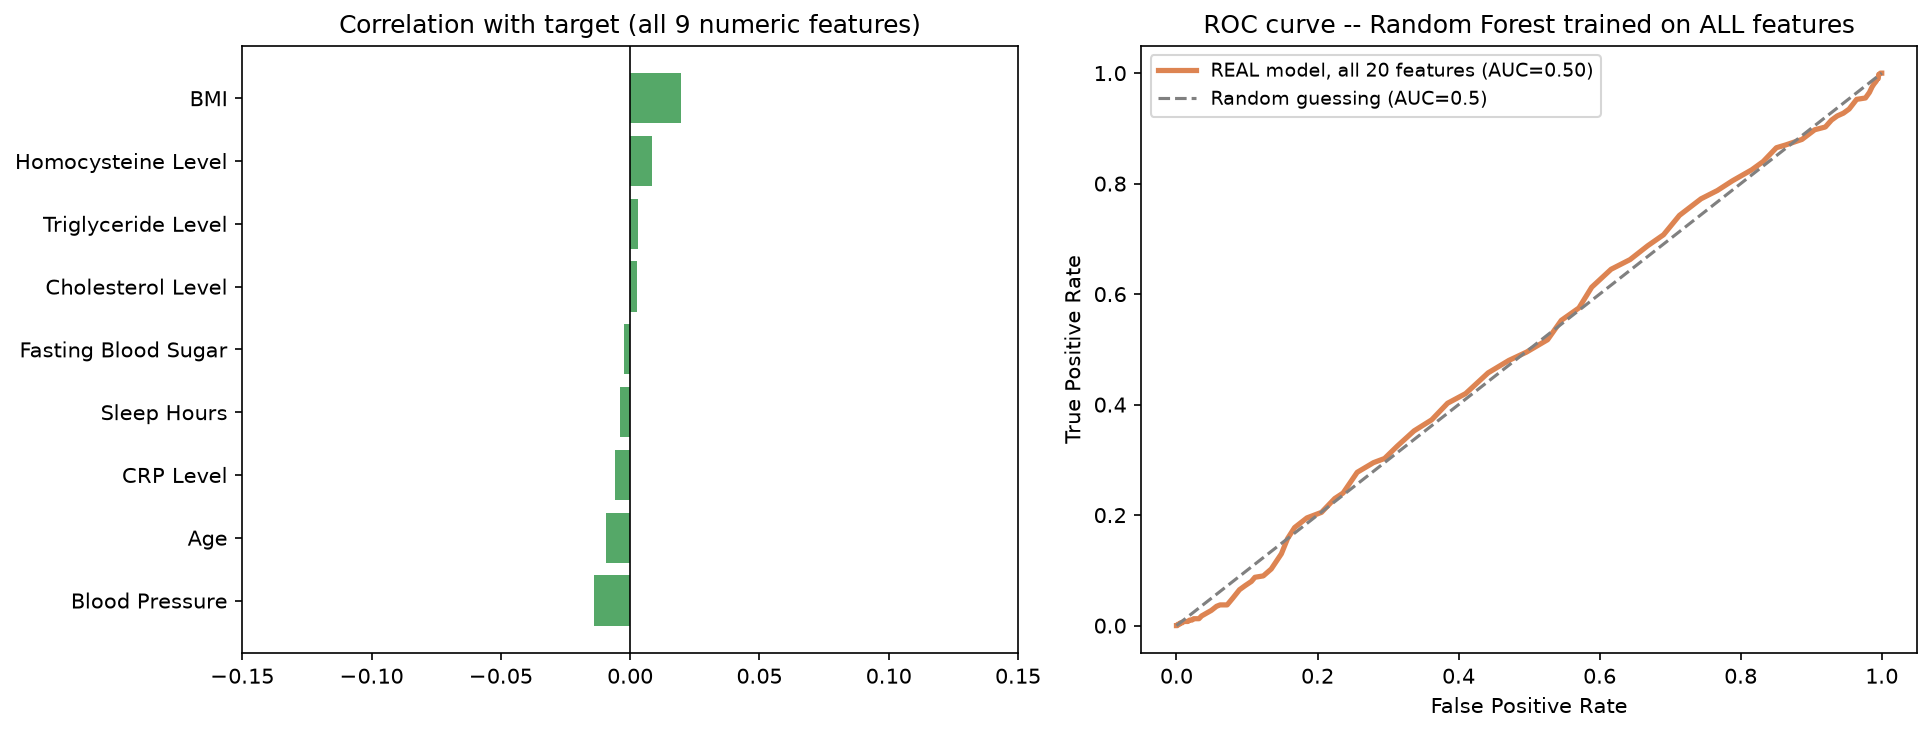
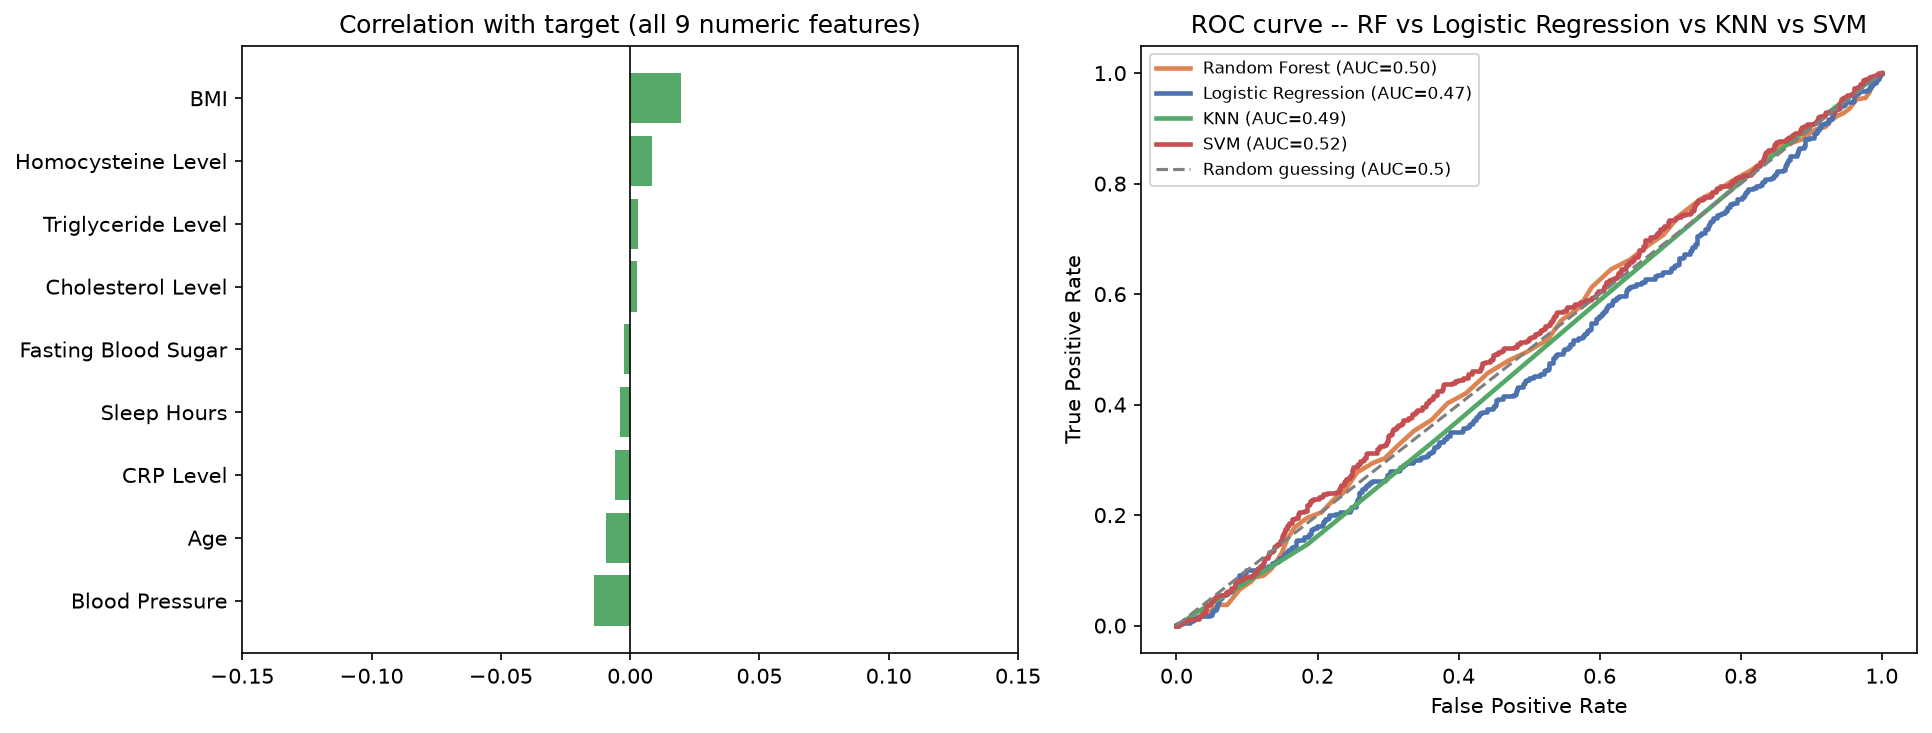
Refactor check_dataset.py for improved structure and add model-specific explainability plots

diff --git a/Check_Dataset_Output/check_dataset.py b/Check_Dataset_Output/check_dataset.py
@@ -1,10 +1,15 @@
 import os
-import pandas as pd
 import numpy as np
+import pandas as pd
 import matplotlib.pyplot as plt
+
 from sklearn.model_selection import train_test_split
+from sklearn.preprocessing import LabelEncoder, OrdinalEncoder, StandardScaler
+from sklearn.pipeline import Pipeline
 from sklearn.ensemble import RandomForestClassifier
-from sklearn.preprocessing import LabelEncoder, OrdinalEncoder
+from sklearn.linear_model import LogisticRegression
+from sklearn.neighbors import KNeighborsClassifier
+from sklearn.svm import SVC
 from sklearn.metrics import roc_curve, roc_auc_score
 
 OUTPUT_DIR = "Check_Dataset_Output"
@@ -16,6 +21,9 @@ num_cols = df.select_dtypes(include='number').columns.tolist()
 target = "Heart Disease Status"
 y = df[target].map({"No": 0, "Yes": 1})
 
+# ---------------------------------------------------------
+# Text summaries (unchanged)
+# ---------------------------------------------------------
 print("=" * 60)
 print("TARGET DISTRIBUTION")
 print("=" * 60)
@@ -25,21 +33,14 @@ print(df[target].value_counts(normalize=True))
 print("\n" + "=" * 60)
 print("NUMERIC FEATURES BY TARGET")
 print("=" * 60)
-
 numeric_cols = df.select_dtypes(include=np.number).columns
-
 for col in numeric_cols:
     print(f"\n--- {col} ---")
-    print(
-        df.groupby(target)[col]
-        .agg(["mean", "std", "min", "max"])
-        .round(3)
-    )
+    print(df.groupby(target)[col].agg(["mean", "std", "min", "max"]).round(3))
 
 print("\n" + "=" * 60)
 print("NUMERIC CORRELATION WITH TARGET")
 print("=" * 60)
-
 for col in numeric_cols:
     corr = df[col].corr(y)
     print(f"{col:<25} {corr:.4f}")
@@ -47,40 +48,27 @@ for col in numeric_cols:
 print("\n" + "=" * 60)
 print("CATEGORICAL FEATURES VS TARGET")
 print("=" * 60)
-
-categorical_cols = df.select_dtypes(
-    include=["object"]
-).columns
-
+categorical_cols = df.select_dtypes(include=["object"]).columns
 for col in categorical_cols:
-
     if col == target:
         continue
-
     print(f"\n--- {col} ---")
-
-    table = pd.crosstab(
-        df[col],
-        df[target],
-        normalize="index"
-    )
-
+    table = pd.crosstab(df[col], df[target], normalize="index")
     print(table.round(3))
 
 # ---------------------------------------------------------
-# Figure 1: Every numeric feature's distribution by class
-# (not just Age/Cholesterol) -- all overlap almost completely
+# Figure 1: distribution of every numeric feature by class.
+# Pure EDA on raw data -- does NOT depend on which model you
+# train, so this is already "general" and needs no changes.
 # ---------------------------------------------------------
 fig1, axes1 = plt.subplots(3, 3, figsize=(15, 12))
 axes1 = axes1.flatten()
-
 for ax, col in zip(axes1, num_cols):
     for label, color in [('No', '#4C72B0'), ('Yes', '#DD8452')]:
-        subset = df[df['Heart Disease Status'] == label][col].dropna()
+        subset = df[df[target] == label][col].dropna()
         ax.hist(subset, bins=30, alpha=0.5, label=label, color=color, density=True)
     ax.set_title(col, fontsize=11)
     ax.legend(fontsize=8)
-
 fig1.suptitle('REAL DATA: every numeric feature, split by class -- all overlap almost completely',
               fontsize=13, y=1.01)
 plt.tight_layout()
@@ -89,19 +77,11 @@ plt.close(fig1)
 print("Saved all_features_distribution.png (all 9 numeric features)")
 
 # ---------------------------------------------------------
-# Figure 2: Correlation bar chart + ROC curve summary
+# Shared preprocessing (used by every model)
 # ---------------------------------------------------------
-fig2, axes2 = plt.subplots(1, 2, figsize=(13, 5))
-
-y = df['Heart Disease Status'].map({'No': 0, 'Yes': 1})
-corr = df[num_cols].corrwith(y).sort_values()
-axes2[0].barh(corr.index, corr.values, color='#55A868')
-axes2[0].set_title('Correlation with target (all 9 numeric features)')
-axes2[0].axvline(0, color='black', lw=0.8)
-axes2[0].set_xlim(-0.15, 0.15)
-
-X = df.drop(columns=['Heart Disease Status']).copy()
+X = df.drop(columns=[target]).copy()
 X['Alcohol Consumption'] = X['Alcohol Consumption'].fillna('None')
+
 ncols = X.select_dtypes(include='number').columns.tolist()
 ccols = X.select_dtypes(include='object').columns.tolist()
 X[ncols] = X[ncols].fillna(X[ncols].median())
@@ -124,20 +104,123 @@ for col in binary_cols:
 X_train, X_test, y_train, y_test = train_test_split(
     X, y, test_size=0.2, random_state=42, stratify=y
 )
-rf = RandomForestClassifier(n_estimators=300, random_state=42, n_jobs=-1)
-rf.fit(X_train, y_train)
-proba = rf.predict_proba(X_test)[:, 1]
-fpr, tpr, _ = roc_curve(y_test, proba)
-auc_real = roc_auc_score(y_test, proba)
 
-axes2[1].plot(fpr, tpr, color='#DD8452', lw=2.5, label=f'REAL model, all 20 features (AUC={auc_real:.2f})')
+# ---------------------------------------------------------
+# Model zoo.
+# RF does not need feature scaling (splits are scale-invariant).
+# LogisticRegression / KNN / SVM are distance- or gradient-based,
+# so they are wrapped in a Pipeline with StandardScaler.
+# SVC needs probability=True to expose predict_proba (slightly
+# slower to fit, but keeps the downstream code identical).
+# ---------------------------------------------------------
+models = {
+    "Random Forest": RandomForestClassifier(n_estimators=300, random_state=42, n_jobs=-1),
+    "Logistic Regression": Pipeline([
+        ("scaler", StandardScaler()),
+        ("clf", LogisticRegression(max_iter=1000, random_state=42)),
+    ]),
+    "KNN": Pipeline([
+        ("scaler", StandardScaler()),
+        ("clf", KNeighborsClassifier(n_neighbors=15)),
+    ]),
+    "SVM": Pipeline([
+        ("scaler", StandardScaler()),
+        ("clf", SVC(kernel="rbf", probability=True, random_state=42)),
+    ]),
+}
+
+model_colors = {
+    "Random Forest": "#DD8452",
+    "Logistic Regression": "#4C72B0",
+    "KNN": "#55A868",
+    "SVM": "#C44E52",
+}
+
+
+def get_positive_class_scores(fitted_model, X_eval):
+    """
+    General helper so ROC generation works for ANY sklearn classifier:
+    use predict_proba when available (RF, LogReg, KNN, SVM with
+    probability=True); fall back to decision_function otherwise
+    (e.g. a plain SVC without probability=True). This is what makes
+    a single shared ROC-plotting loop possible across model types.
+    """
+    if hasattr(fitted_model, "predict_proba"):
+        return fitted_model.predict_proba(X_eval)[:, 1]
+    elif hasattr(fitted_model, "decision_function"):
+        return fitted_model.decision_function(X_eval)
+    else:
+        raise ValueError("Model exposes neither predict_proba nor decision_function")
+
+
+results = {}
+for name, model in models.items():
+    model.fit(X_train, y_train)
+    scores = get_positive_class_scores(model, X_test)
+    fpr, tpr, _ = roc_curve(y_test, scores)
+    auc = roc_auc_score(y_test, scores)
+    results[name] = {"fpr": fpr, "tpr": tpr, "auc": auc, "model": model}
+    print(f"{name:<22} test AUC = {auc:.3f}")
+
+# ---------------------------------------------------------
+# Figure 2: correlation bar chart (general, data-based) +
+# ROC curves for ALL FOUR models overlaid on one shared axis.
+# The ROC-plotting loop is 100% general -- it only touches
+# fpr/tpr/auc, which every classifier produces the same way,
+# so RF/LogReg/KNN/SVM all reuse this exact code.
+# ---------------------------------------------------------
+fig2, axes2 = plt.subplots(1, 2, figsize=(13, 5))
+
+corr = df[num_cols].corrwith(y).sort_values()
+axes2[0].barh(corr.index, corr.values, color='#55A868')
+axes2[0].set_title('Correlation with target (all 9 numeric features)')
+axes2[0].axvline(0, color='black', lw=0.8)
+axes2[0].set_xlim(-0.15, 0.15)
+
+for name, res in results.items():
+    axes2[1].plot(
+        res["fpr"], res["tpr"],
+        color=model_colors[name], lw=2.2,
+        label=f'{name} (AUC={res["auc"]:.2f})'
+    )
 axes2[1].plot([0, 1], [0, 1], color='gray', lw=1.5, linestyle='--', label='Random guessing (AUC=0.5)')
-axes2[1].set_title('ROC curve -- Random Forest trained on ALL features')
+axes2[1].set_title('ROC curve -- RF vs Logistic Regression vs KNN vs SVM')
 axes2[1].set_xlabel('False Positive Rate')
 axes2[1].set_ylabel('True Positive Rate')
-axes2[1].legend(fontsize=9)
+axes2[1].legend(fontsize=8)
 
 plt.tight_layout()
 plt.savefig(f"{OUTPUT_DIR}/signal_summary.png", dpi=150, bbox_inches='tight')
 plt.close(fig2)
-print(f"Saved signal_summary.png -- RF test AUC using all features: {auc_real:.3f}")
+print("Saved signal_summary.png -- correlation bar chart + 4-model ROC comparison")
+
+# ---------------------------------------------------------
+# Figure 3: model-specific "what drives the prediction" plots.
+# This CANNOT be one general chart, because each model exposes a
+# different kind of internal signal:
+#   - Random Forest       -> feature_importances_ (impurity-based)
+#   - Logistic Regression -> coef_ (signed, standardized coefficients)
+#   - KNN                  -> no built-in importance/coefficients
+#   - SVM (rbf kernel)     -> no built-in importance/coefficients
+#     (only a linear-kernel SVC exposes coef_)
+# So this figure only plots RF importances and LogReg coefficients,
+# and explicitly notes that KNN/SVM have no equivalent.
+# ---------------------------------------------------------
+fig3, axes3 = plt.subplots(1, 2, figsize=(13, 5))
+
+rf_model = results["Random Forest"]["model"]
+importances = pd.Series(rf_model.feature_importances_, index=X.columns).sort_values()
+axes3[0].barh(importances.index, importances.values, color='#DD8452')
+axes3[0].set_title('Random Forest: feature_importances_')
+
+logreg_model = results["Logistic Regression"]["model"].named_steps["clf"]
+coefs = pd.Series(logreg_model.coef_[0], index=X.columns).sort_values()
+axes3[1].barh(coefs.index, coefs.values, color='#4C72B0')
+axes3[1].axvline(0, color='black', lw=0.8)
+axes3[1].set_title('Logistic Regression: standardized coefficients')
+
+fig3.suptitle('Model-specific explainability (KNN / SVM have no native equivalent)', y=1.02)
+plt.tight_layout()
+plt.savefig(f"{OUTPUT_DIR}/model_specific_explainability.png", dpi=150, bbox_inches='tight')
+plt.close(fig3)
+print("Saved model_specific_explainability.png (RF importances + LogReg coefficients)")
